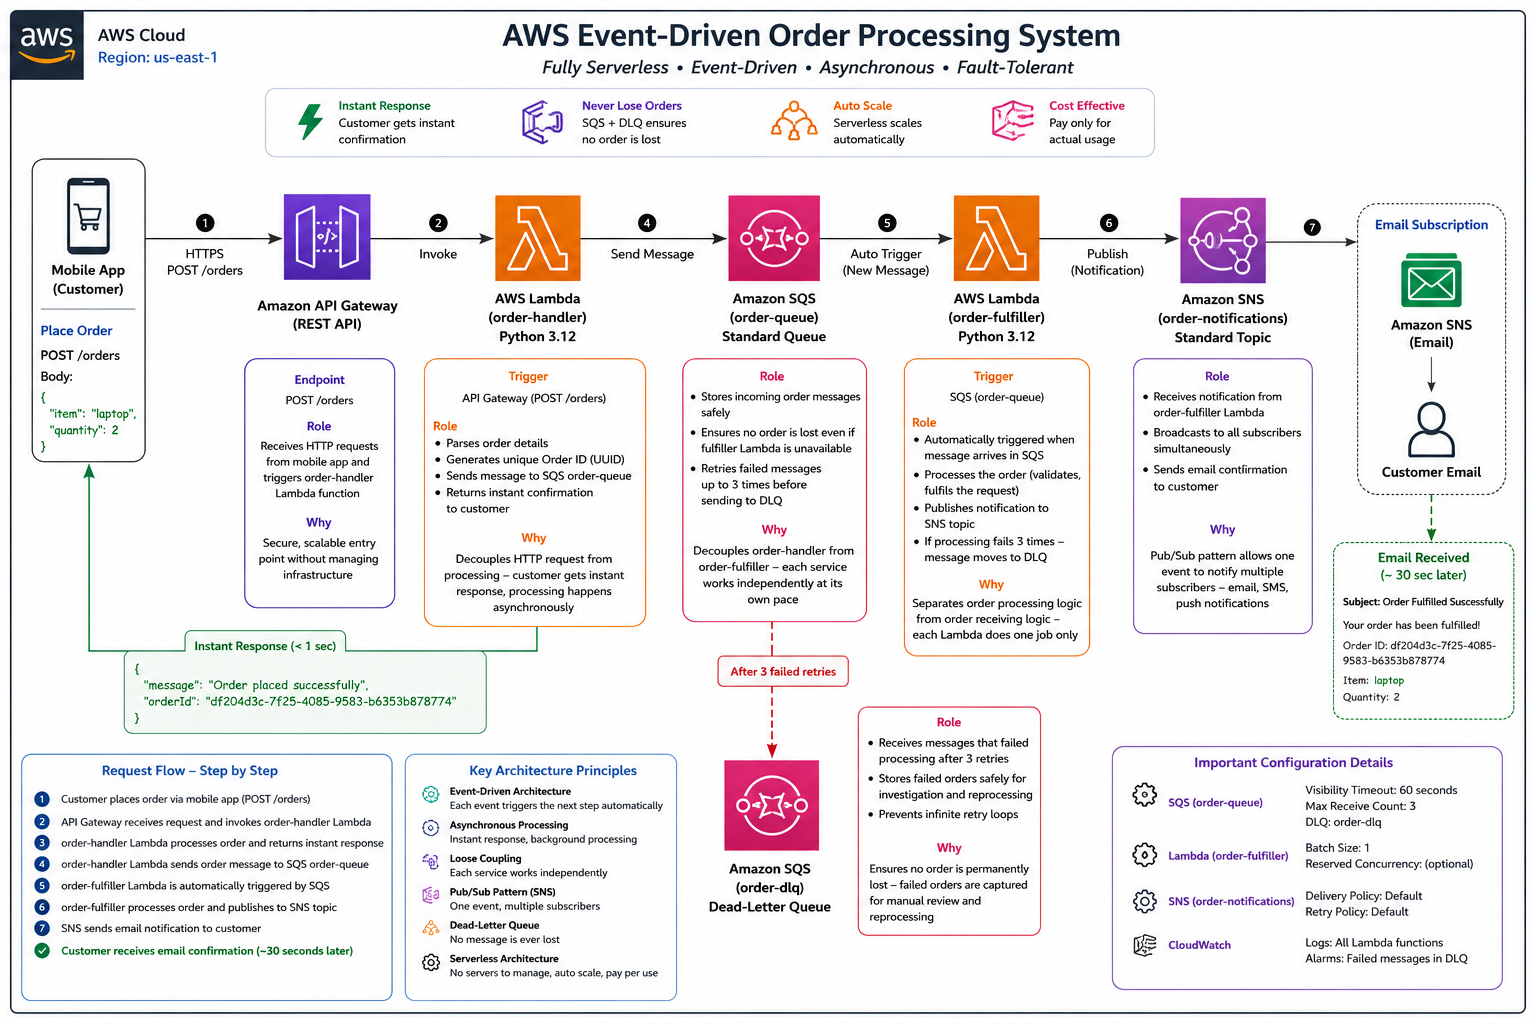
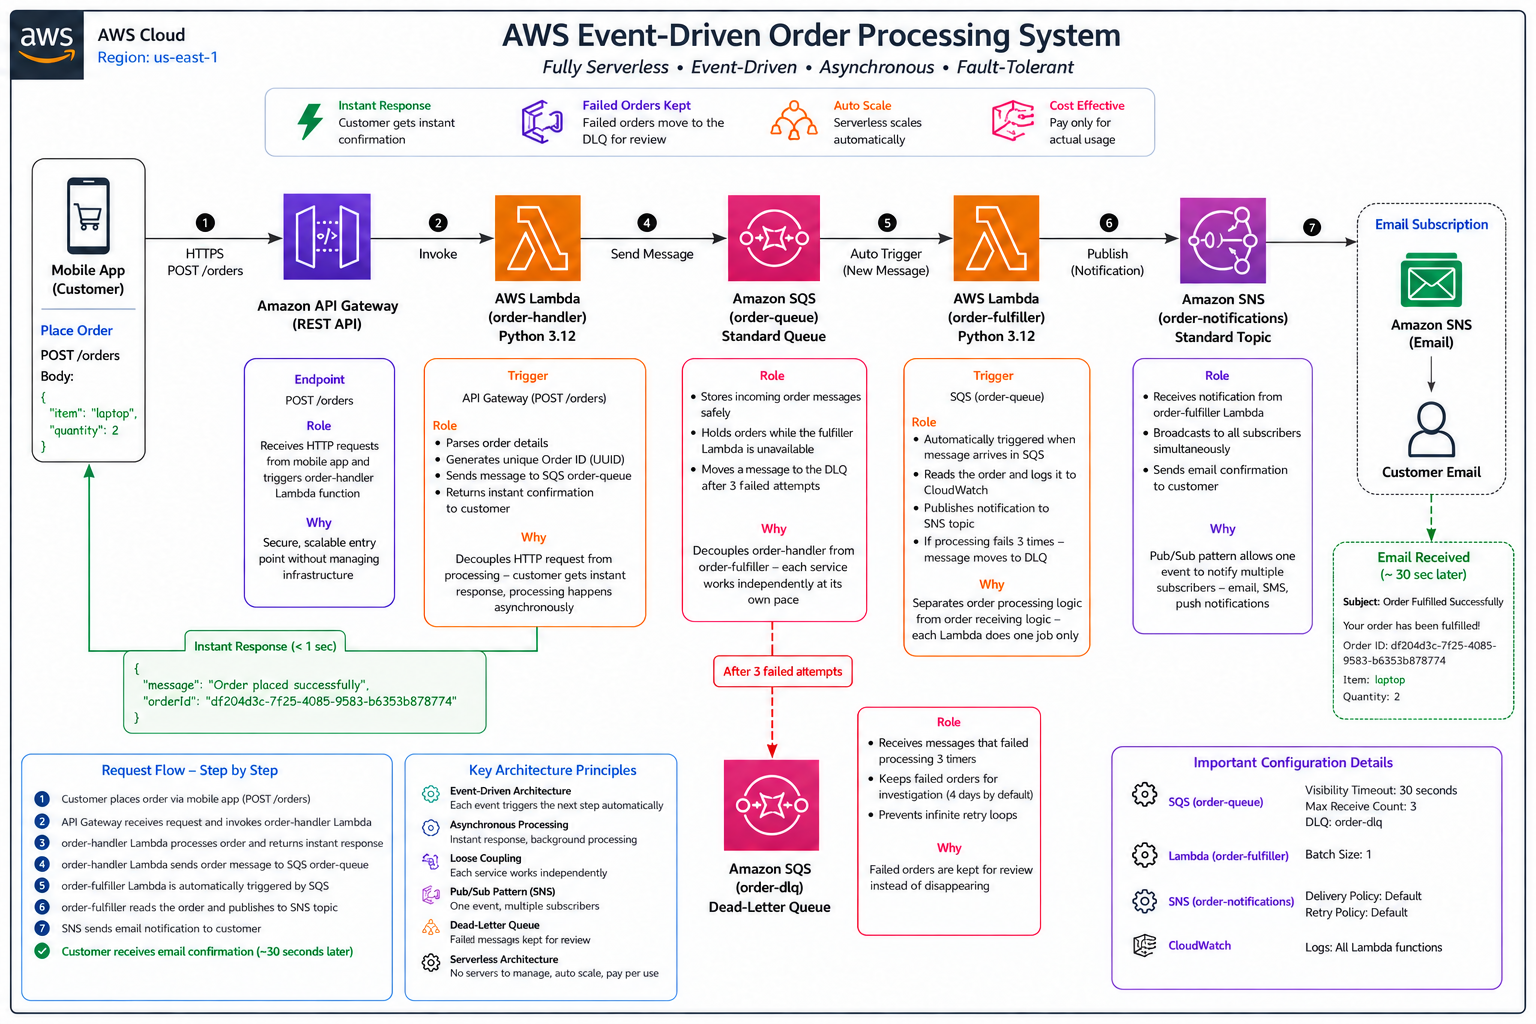
Update architecture diagram to match the actual setup

diff --git a/README.md b/README.md
@@ -40,14 +40,8 @@ An order processing system where:
 ![AWS Event-Driven Order Processing System Architecture](architecture.png)
 
 The diagram above shows the complete flow from the mobile app through
-API Gateway, Lambda, SQS, SNS and the Dead-Letter Queue.
-
-A few details in the diagram don't match what I actually configured.
-Where they differ, the text in this README is correct:
-- The queue uses the default 30 second visibility timeout, not 60 seconds
-- I haven't set up a CloudWatch alarm on the DLQ yet
-- order-fulfiller doesn't validate or process the order, it only reads it and sends the notification
-- The DLQ doesn't keep messages forever, only for its retention period (4 days by default)
+API Gateway, Lambda, SQS, SNS and the Dead-Letter Queue, along with
+the main settings I used in this project.
 
 ---
 
